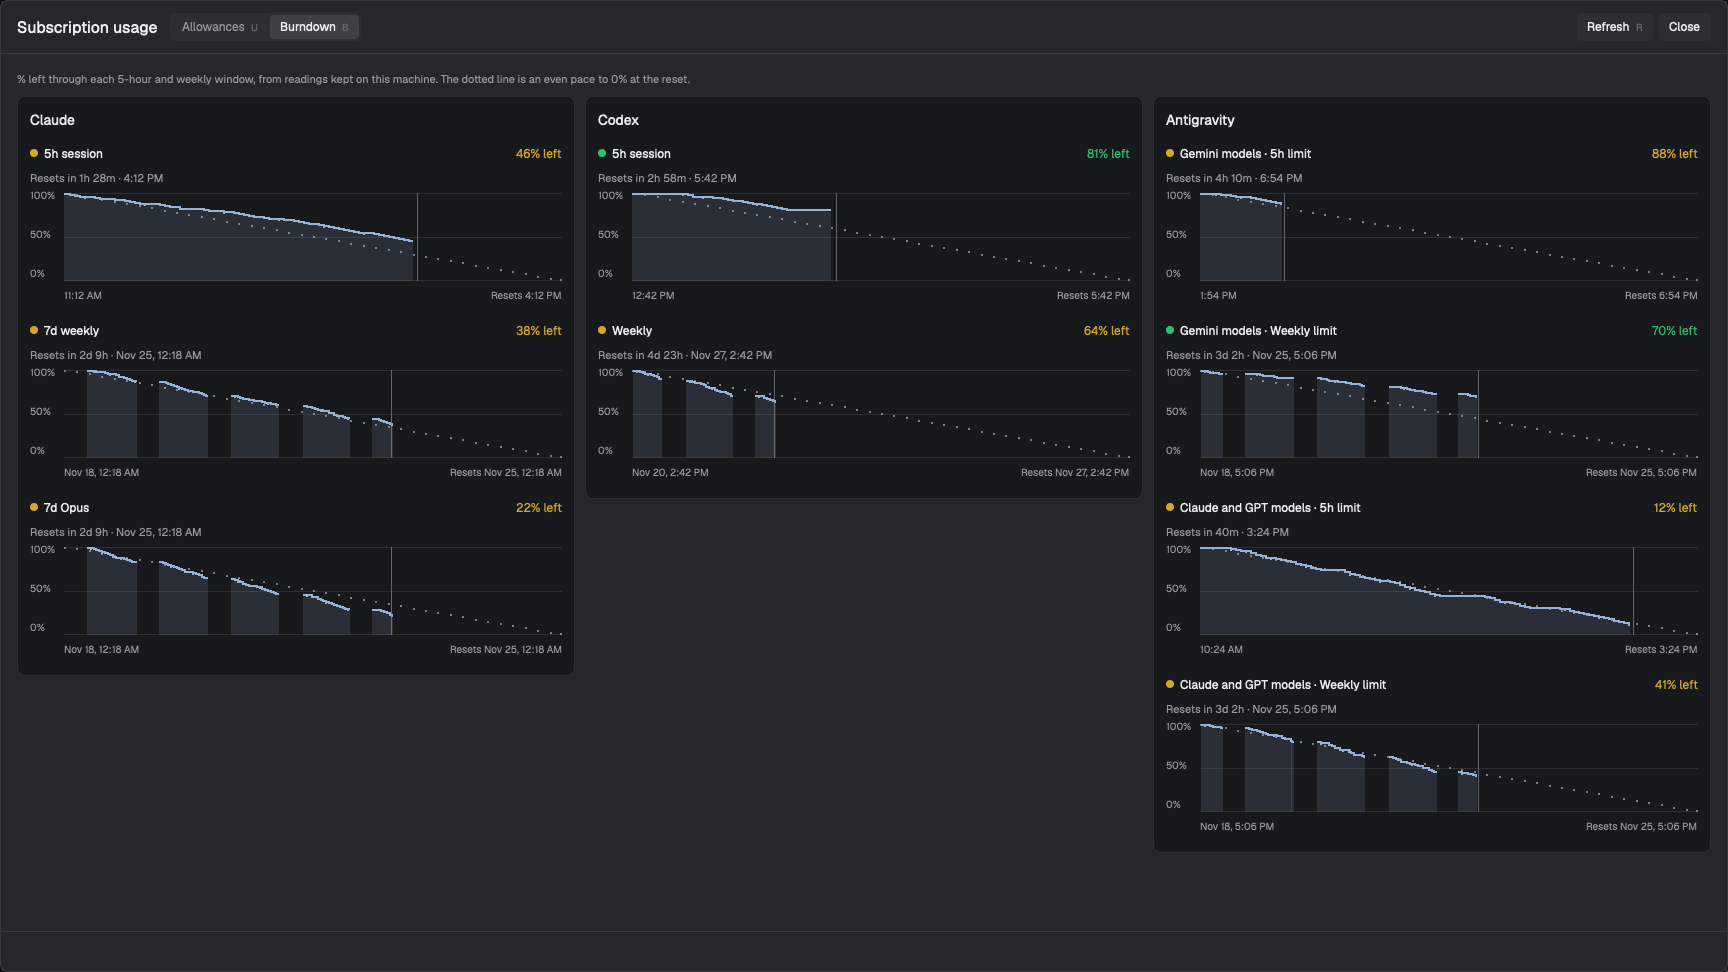
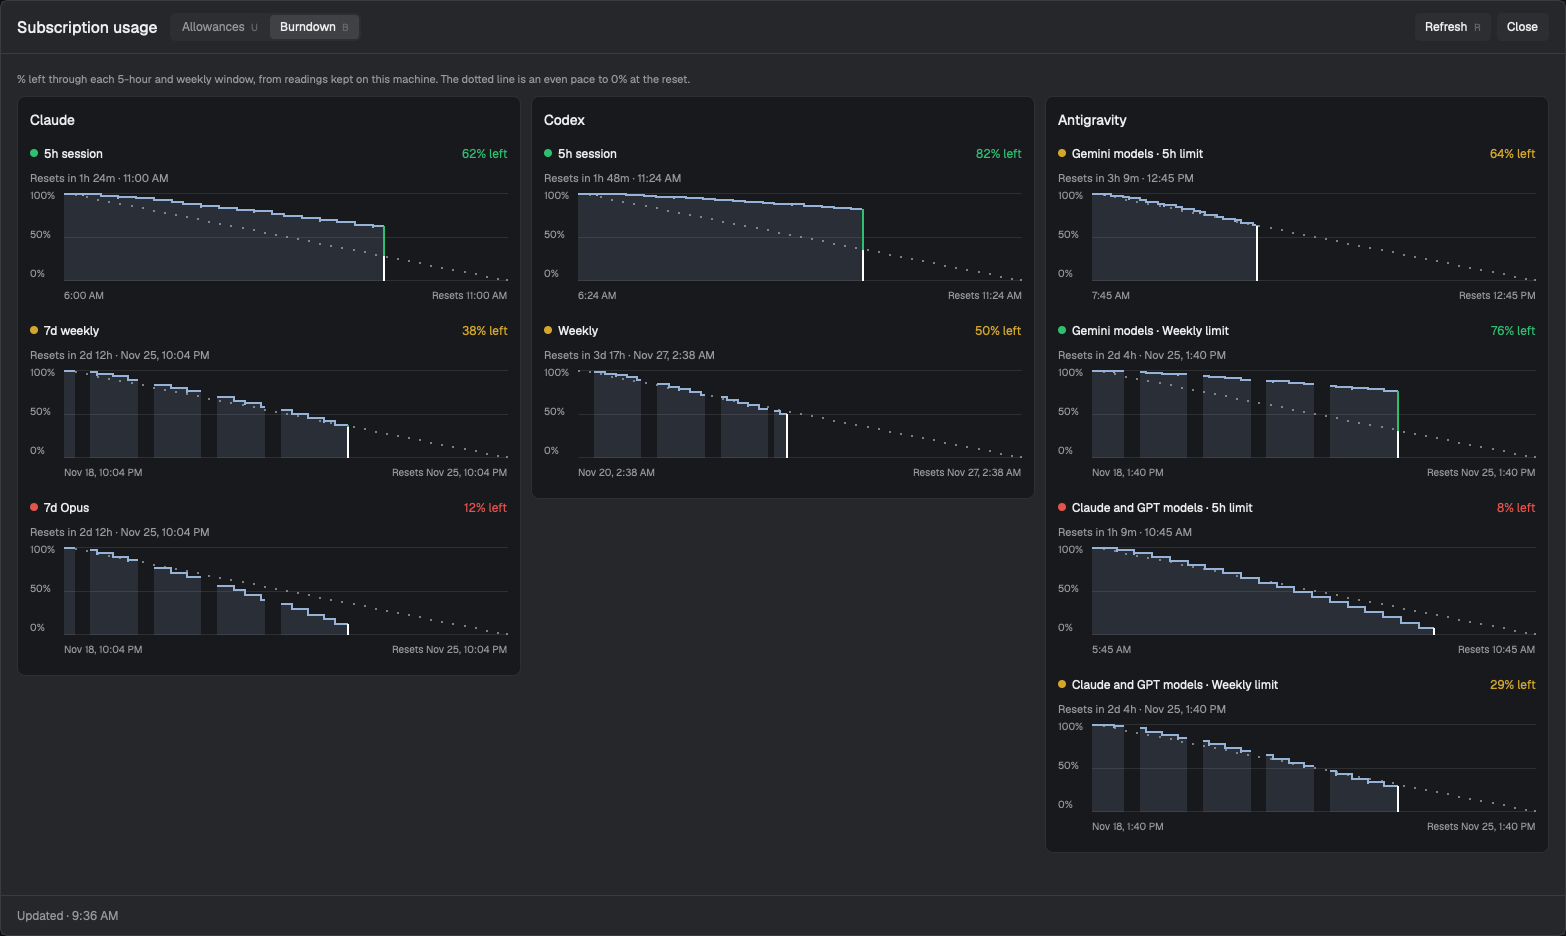
Refresh Herdr usage screenshots for untapped burndown markers

diff --git a/README.md b/README.md
@@ -18,7 +18,7 @@ Claude Code · Codex · Antigravity · Cursor · GitHub Copilot · Grok · OpenC
 
 Press <kbd>B</kbd> to switch to the **Burndown** view, which charts how each limit has drained through its current window against an even pace (see [Burndown charts](#burndown-charts)):
 
-![The Burndown view: Claude, Codex and Antigravity cards, each with a chart of % left through its 5-hour and weekly windows, against a dotted even-pace line](docs/herdr-app-burndown.png)
+![Burndown charts for Claude, Codex and Antigravity. White markers show the current time, with a green segment above the dotted even-pace line where allowance is going unused.](docs/herdr-app-burndown.png)
 
 ## Quick start
 
@@ -54,7 +54,7 @@ Everything green is listed in the **Untapped allowance** panel at the top, soone
 
 ## Burndown charts
 
-Switch the breakdown to **Burndown** (press <kbd>B</kbd>, and <kbd>U</kbd> to go back) to see how each 5-hour and weekly limit has drained through its current window, from 100% at the start to the reset. Limits a provider sets per model get their own chart: Claude's 7d Opus and 7d Sonnet, and each Antigravity model group. A dotted line shows an even pace to 0% at the reset, so a line below it is spending faster than the window allows. Hover a chart for the reading at that time.
+Switch the breakdown to **Burndown** (press <kbd>B</kbd>, and <kbd>U</kbd> to go back) to see how each 5-hour and weekly limit has drained through its current window, from 100% at the start to the reset. Limits a provider sets per model get their own chart: Claude's 7d Opus and 7d Sonnet, and each Antigravity model group. A dotted line shows an even pace to 0% at the reset. The vertical marker shows the current time. Its green segment shows how much allowance is above the even pace and would go unused at the current pace. Hover a chart for the reading at that time.
 
 The charts come from readings kept on your machine, recorded each time allowances are read (every few minutes while Herdr is open), so they fill in from when you install this version. Time when Herdr was closed or the machine was asleep shows as a gap.
 

diff --git a/herdr-app/RECIPE.md b/herdr-app/RECIPE.md
@@ -56,8 +56,10 @@ unused at your current pace, so you know where there's capacity to spend.
     "Now" at right.
   - % left is a step line of 2px `accent` bars with `accent` at 14% opacity
     under it. Time with no readings is a gap. A dotted `muted` diagonal runs
-    from 100% at the start to 0% at the reset: an even pace. A 1px `muted`
-    line marks now.
+    from 100% at the start to 0% at the reset: an even pace. At the current
+    time, a 2px white marker extends from the remaining allowance to the
+    bottom of the plot. The part above the dotted line is green (`#2fbf71`)
+    to show allowance that would go unused at this pace.
   - Hovering the plot shows "3:40 PM · 62% left · even pace 55%" for that
     48th of the window.
 
